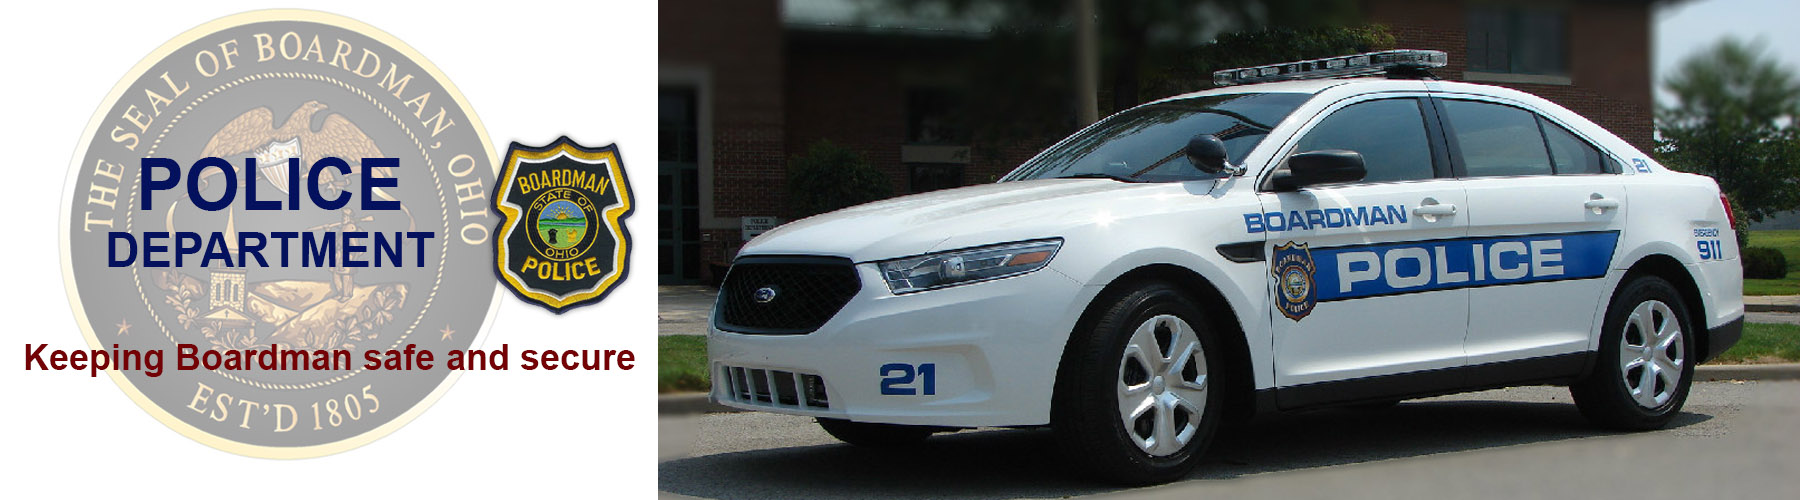
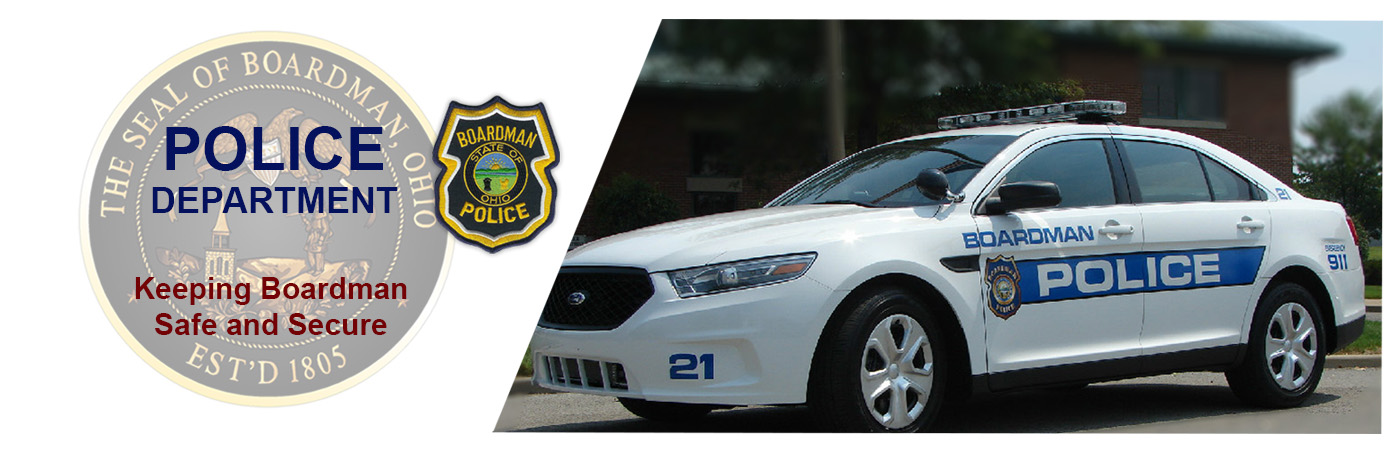
Commit after completed the base design of Add Reports.

diff --git a/src/main/webapp/WEB-INF/resources/views/admin/add-report.html b/src/main/webapp/WEB-INF/resources/views/admin/add-report.html
@@ -1,0 +1,62 @@
+
+<!-- SERVICES -->
+<section id="services">
+	<div class="container" style="width:90%;">
+	<div class="col-md-12 white-form" style="min-height: 500px;">
+	<button class="btn btn-primnary active">Add Reports</button>&nbsp;&nbsp;<button class="btn btn-primnary">My Reports</button>
+	<hr/>
+	<div class="container">
+	<h4>Add Report</h4><hr/>
+			  <form class="form-horizontal">
+			    <div class="form-group">
+			      <label class="control-label col-sm-2">Crash Date:</label>
+			      <div class="col-sm-4">
+			        <input type="text" class="form-control" ng-model="report.crashDate" placeholder="Enter Crash Date">
+			      </div>
+			    </div>
+			    <div class="form-group">
+			      <label class="control-label col-sm-2">Report Number:</label>
+			      <div class="col-sm-4">          
+			        <input type="text" class="form-control" ng-model="report.reportNumber" placeholder="Enter Report Number">
+			      </div>
+			    </div>
+			    <div class="form-group">
+			      <label class="control-label col-sm-2">Location:</label>
+			      <div class="col-sm-4">          
+			        <input type="text" class="form-control" ng-model="report.location" placeholder="Enter Location">
+			      </div>
+			    </div>
+			    <div class="form-group">
+			      <label class="control-label col-sm-2">Upload Report:</label>
+			      <div class="col-sm-4">          
+			        <input type="file" class="form-control">
+			      </div>
+				    </div>
+				    <hr/>
+				    <h5>Occupants List&nbsp;&nbsp;&nbsp;&nbsp;&nbsp;<a href="" ng-click="addOccupant();">Add One More Occupant</a></h5>
+				    <hr/>
+			    <div class="form-group" ng-repeat="occupant in report.occupants" ng-if="occupant.isRemoved==0">
+			      <label class="control-label col-sm-2">First Name:</label>
+			      <div class="col-sm-3">          
+			        <input type="text" class="form-control" ng-model="occupant.firstname" placeholder="Enter First Name">
+			      </div>
+			      <label class="control-label col-sm-2">Last Name:</label>
+			      <div class="col-sm-3">          
+			        <input type="text" class="form-control" ng-model="occupant.lastname" placeholder="Enter Last Name">
+			      </div>
+			      <div class="col-sm-2"><a href="" ng-click="occupant.isRemoved=1">Remove</a></div>
+			    </div>
+			    
+			    <div class="form-group">        
+			      <div class="col-sm-offset-2 col-sm-10">
+			        <button type="submit" class="btn btn-default">Submit</button>
+			      </div>
+			    </div>
+			  </form>
+	</div>
+	
+
+	</div>
+	</div>
+</section>
+<!-- /SERVICES -->

diff --git a/src/main/webapp/WEB-INF/resources/styles/style.css b/src/main/webapp/WEB-INF/resources/styles/style.css
@@ -599,11 +599,10 @@
 	}
 
 	body {
-		font-family:  'Open Sans', Arial, Helvetice Neue, sans-serif;
-		font-size: 14px;
+		/* font-family:  'Open Sans', Arial, Helvetice Neue, sans-serif; */
+		font-size: 16px;
 		font-weight: 400;
 		line-height: 1.7857;
-		letter-spacing: 0.075em;
 		color: #555;
 		background-color: #fff;
 	}
@@ -641,9 +640,10 @@
 	}
 
 	h1, h2, h3, h4, h5, h6{
-        font-family:  'Open Sans', Arial, Helvetice Neue, sans-serif;
-		font-weight: 700;
-		text-transform: uppercase;
+        font-family:  'Arial';
+        font-weight: bold; 
+		
+		
 	}
 
 	input, textarea{
@@ -651,7 +651,11 @@
 	}
 
 	label{
-		font-weight: 300;
+		/* font-weight: 300; */
+	}
+	
+	.form-horizontal .control-label{
+	text-align: left;
 	}
 
 	#pre-status,
@@ -938,7 +942,6 @@
 	#home-carousel  .item {
 		background-position: center top;
 		background-repeat: no-repeat;
-		background-size:cover;
 		width:100%;
 		height: 450px;
 	}
@@ -1519,6 +1522,12 @@
 	}
 	
 	.search-form{
+		background-color: white;
+		width:100%;
+		padding:20px;
+	}
+	
+	.white-form{
 		background-color: white;
 		width:100%;
 		padding:20px;
@@ -2688,4 +2697,7 @@ padding-right:50px !important;
 .div-scroll{
 	max-height:450px;
 	overflow:auto;
+}
+.sub-form{
+	background-color:#f3f3f3;
 }

diff --git a/src/main/webapp/WEB-INF/resources/scripts/adminApp.js b/src/main/webapp/WEB-INF/resources/scripts/adminApp.js
@@ -48,22 +48,22 @@ adminApp.config(['$routeProvider','$ocLazyLoadProvider','$httpProvider',
         }]);
 
         $routeProvider.
-            when('/dashboard', {
-                templateUrl: 'admin/dashboard.html',
+            when('/add-report', {
+                templateUrl: 'admin/add-report.html',
                 resolve: {
                     loadMyFiles:['$ocLazyLoad',function($ocLazyLoad) {
                         return $ocLazyLoad.load({
                             name:'adminApp',
                             files:[
-                                'resources/scripts/controllers/adminDashboardController.js'
+                                'resources/scripts/controllers/addReportsController.js'
                             ]
                         })
                     }]
 
                 },
-                controller:'AdminDashboardController'
+                controller:'AddReportsController'
             }).
             otherwise({
-                redirectTo: '/dashboard'
+                redirectTo: '/add-report'
             });
     }]);

diff --git a/src/main/webapp/WEB-INF/resources/scripts/controllers/addReportsController.js b/src/main/webapp/WEB-INF/resources/scripts/controllers/addReportsController.js
@@ -1,0 +1,21 @@
+/**
+ * Created by user on 18/5/16.
+ */
+
+var adminApp = angular.module('adminApp',['flash','requestModule']);
+adminApp.controller('AddReportsController',['$scope','$http',function($scope,$http){
+	$scope.report={
+			"crashDate":"",
+			"reportNumber":"",
+			"location":"",
+			"uploadReportFilePath":"",
+			"occupants":[{"firstname":"","lastname":"","isRemoved":0},{"firstname":"","lastname":"","isRemoved":0},{"firstname":"","lastname":"","isRemoved":0}]
+	};
+	
+	//Add Occupant
+	$scope.addOccupant=function(){
+		$scope.newOccupant={"firstname":"","lastname":"","isRemoved":0};
+		$scope.report.occupants.push($scope.newOccupant);
+	};
+	
+}]);
